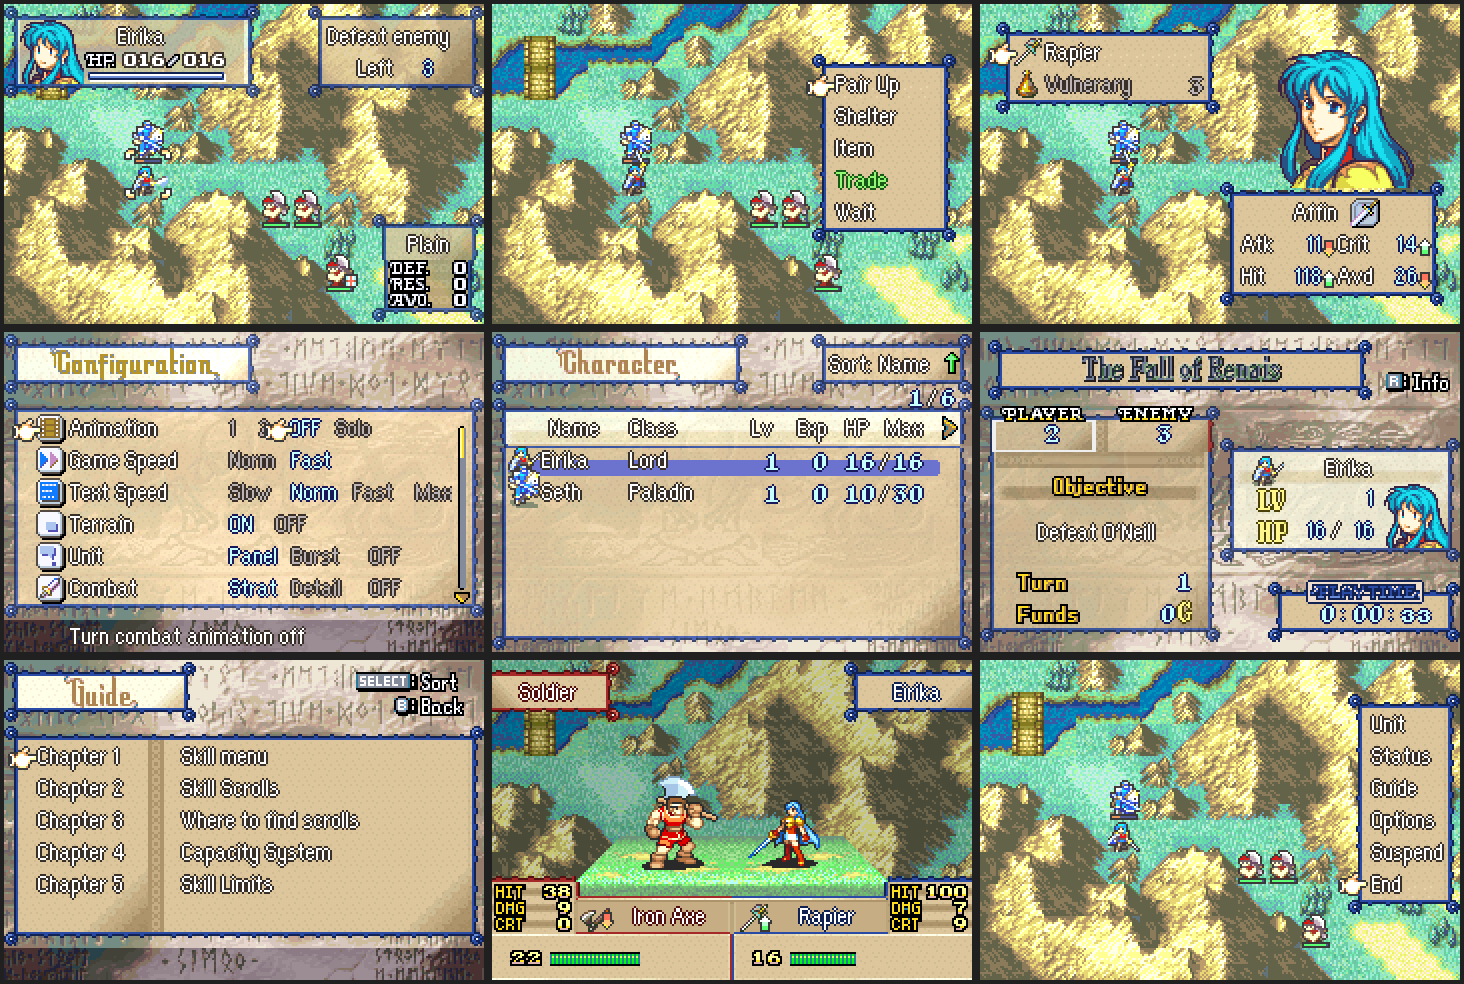
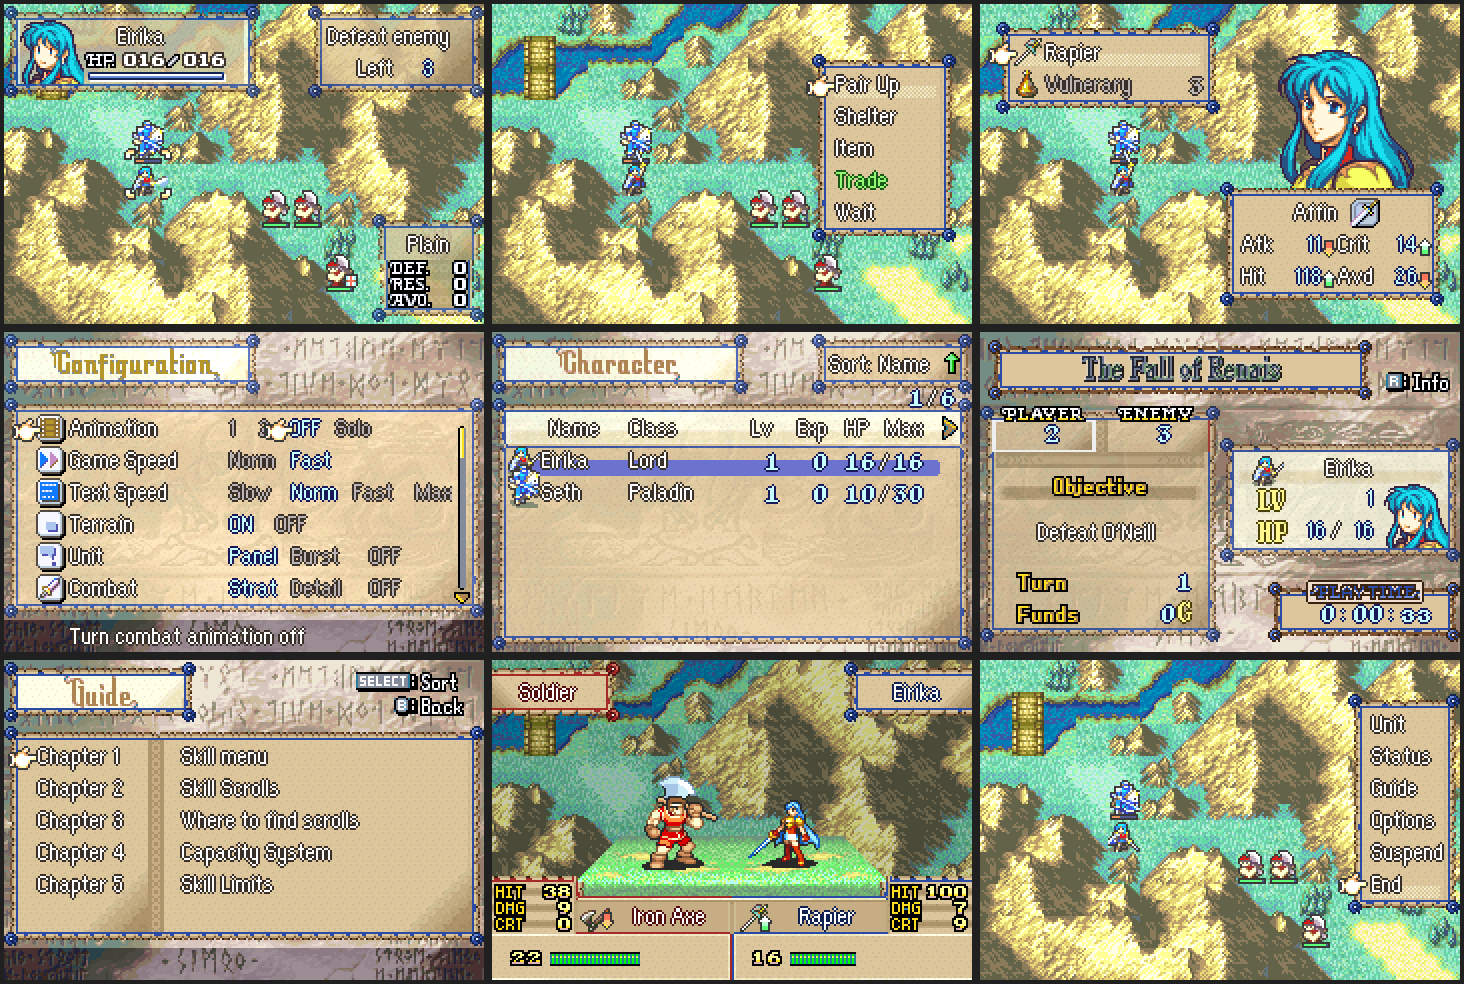
Give the Parchment UI a deckled, scorched paper edge
The outer border is now the sheet's own edge: nibbled in and torn
here and there, browning outward to a scorched rim with flecks of
char. The faction ink line runs just inside it, swelling like a pen.

Claude-Session: https://claude.ai/code/session_01Tw4Msv6aWGsnaGTgRodNJ7

diff --git a/Kernel/Wizardry/VeslyUI/png/Parchment/generate_parchment.py b/Kernel/Wizardry/VeslyUI/png/Parchment/generate_parchment.py
@@ -7,8 +7,9 @@ The shared redraw lives in ../style_tools.py; this script sets the look:
   * the palettes: aged paper panels and cream light panels for every window
     colour; the factions are told apart by their ink (blue, red, green,
     sepia), which draws the borders and the seals;
-  * the frame: a hand-drawn ink line whose outer edge wobbles, the stroke
-    swelling and thinning like a pen, on all four sides;
+  * the frame: the sheet's own edge, browning to a scorched rim with torn
+    notches and flecks of char, and a hand-drawn ink line inside it that
+    swells here and there like a pen, on all four sides;
   * a wax seal on each window corner, in the window's ink colour;
   * a faint paper-fibre speckle on the panels.
 
@@ -32,10 +33,11 @@ NAME = "Parchment"
 HERE = os.path.dirname(os.path.abspath(__file__))
 
 # Menu palette entries. White (1) stays white for text. 2-4 (vanilla's gold)
-# hold the window colour's ink, light to dark: it draws the border and the
-# wax seals. 5-9 are cream paper, 10-15 aged paper.
+# hold the window colour's ink, light to dark: it draws the ink line and the
+# wax seals. 5-7 are cream paper, 8 and 9 the scorched rim, 10-15 aged paper.
 INK_LIGHT, INK, INK_DARK = 2, 3, D
-PANEL = 10
+SCORCH, BURNT = 8, 9
+PANEL, BROWNED = 10, 13
 
 INKS = [
     # Blue ink: window colour 0, player faction.
@@ -47,7 +49,8 @@ INKS = [
     # Sepia ink: window colour 3, other (purple) faction.
     ["B08860", "6A4424", "2E1C0E"],
 ]
-CREAM = ["FFF8E4", "F6ECD2", "EEE0BE", "E4D2A8", "D8C498"]                # 5-9
+CREAM = ["FFF8E4", "F6ECD2", "EEE0BE"]                                    # 5-7
+RIM_COLOURS = ["7A5430", "3A2210"]                                        # 8 scorch, 9 burnt
 AGED = ["D8C49C", "CEB890", "C4AC84", "B8A078", "AC946C", "A08860"]       # 10-15
 
 # Prep funds/items OBJ palette (vanilla gUnknown_08A1B638): 2-9 dark -> light ramp.
@@ -55,7 +58,7 @@ PREP_ITEMS = ["7080A0", "2E1C0E", "4A3018", "6A4424", "8A6034", "A87E4C",
               "C49C68", "D8B888", "E8D0A8", "F4E6CC", "1E1208", "FFFFFF",
               "F6ECD2", "6888D0", "2C4CA0", "000000"]
 
-FIBRE_RAMPS = {"ui": [list(range(5, 10)), list(range(10, 16))],
+FIBRE_RAMPS = {"ui": [[5, 6, 7], list(range(10, 16))],
                "prep": [list(range(9, 1, -1))]}
 
 # Paper fibres: a few scattered pixels per 8x8 tile, one shade darker.
@@ -64,7 +67,7 @@ FIBRES = {(1, 1), (6, 2), (3, 4), (0, 6), (5, 6), (7, 4), (2, 7)}
 
 def ui_row(ink, dim=1.0):
     row = ([rgb("7080A0"), rgb("FFFFFF")] + [rgb(c) for c in ink]
-           + [rgb(c) for c in CREAM] + [rgb(c) for c in AGED])
+           + [rgb(c) for c in CREAM + RIM_COLOURS + AGED])
     if dim != 1.0:
         row = [row[0]] + [tuple(int(v * dim) for v in c) for c in row[1:]]
     return row
@@ -94,46 +97,75 @@ def texture(image, kind, skip=frozenset()):
 
 
 # --- Frame ------------------------------------------------------------------------
-# A hand-drawn ink line on every side. Its inner edge runs straight along the
-# panel; its outer edge wobbles, the stroke 1 to 3 pixels thick (2 at each
-# tile's ends, so tiles join up). Each tile wobbles in its own way, and the
-# DrawUiFrame replacement in C_Code.c mixes the interchangeable beam and left
-# edge tiles by position, so the wobble along a window is irregular.
-# Top lines end on row 7, bottom lines start on row 0, left lines end on
-# x 6 and right lines start on x 2.
+# A 4-pixel border on every side, from the panel out: a hand-drawn ink line,
+# then the sheet's own edge, browning to a scorched, deckled rim. The ink line
+# is 1 pixel with a stretch where the pen swells to 2; the rim is nibbled in,
+# torn and charred here and there (whole at each tile's ends, so tiles join
+# up). Each tile has its own, and the DrawUiFrame replacement in
+# C_Code.c mixes the interchangeable beam and left edge tiles by position, so
+# the edge along a window is irregular.
+# Top borders end on row 7, bottom borders start on row 0, left borders end
+# on x 6 and right borders start on x 1.
 OUTLINE = None       # this style lays out its own edges
-H_STROKE = 100       # + distance from the panel (0-2): placeholder on a top/bottom bar
+H_STROKE = 100       # + distance from the panel (0-3): placeholder on a top/bottom bar
 V_STROKE = 110       # the same on a left/right edge
 SIDE = 120           # a 1-pixel vanilla line on a side edge
-BAND = 3             # the most the stroke can swell to
+BAND = 4             # border thickness
+RIM = BAND - 1       # where the sheet ends, unless torn
 
 
-def wobble(t):
-    """Stroke thickness at each pixel along tile t: 2 with one swelling or
-    thinning stretch, placed by noise()."""
-    widths = [2] * 8
-    roll = noise(t)
-    if roll < 200:
+def pen(t):
+    """Ink line thickness at each pixel along tile t: 1, with one stretch
+    where the pen swells to 2, placed by noise()."""
+    widths = [1] * 8
+    roll = noise(t, 1)
+    if roll < 400:
         return widths
     start = 1 + roll % 4
-    length = 2 + (roll // 4) % 2
-    for i in range(start, min(7, start + length)):
-        widths[i] = 3 if (roll // 8) % 2 else 1
+    for i in range(start, min(7, start + 2 + (roll // 4) % 3)):
+        widths[i] = 2
     return widths
 
 
-def stroke(q, width):
-    """Ink q pixels from the panel on a stroke this wide: the outer pixel
-    darkest, nothing beyond it."""
-    if q >= width:
+def torn(t):
+    """The sheet's outermost pixel at each pixel along tile t, as a distance
+    from the panel: RIM, nibbled a pixel in here and there like a deckled
+    edge, and now and then torn a pixel deeper; placed by noise()."""
+    rim = [RIM] * 8
+    for i in range(1, 7):
+        roll = noise(t, 2, i)
+        if roll < 320:
+            rim[i] = RIM - 1
+    roll = noise(t, 4)
+    if roll < 250:
+        i = 2 + roll % 4
+        rim[i] = RIM - 2
+        rim[i - 1] = min(rim[i - 1], RIM - 1)
+    return rim
+
+
+def charred(t, along):
+    """Whether the rim is charred dark at this pixel along tile t."""
+    return noise(t, 3, along) < 220
+
+
+def sheet(q, rim, ink, char=False):
+    """The border q pixels from the panel: ink against the panel, the paper
+    carrying on past it and browning outward to a scorched rim (charred dark
+    in places), nothing past that."""
+    if q < ink:
+        return INK
+    if q > rim:
         return 0
-    return INK_DARK if q == width - 1 else INK
+    if q == rim:
+        return BURNT if char else SCORCH
+    return BROWNED if q == rim - 1 else PANEL
 
 
 def beam(n, i, outer):
-    """A bar n pixels thick. At a window edge: the ink line against the
-    panel. Between two panels: a single ink rule. A 1-pixel line is a side
-    edge, laid out later."""
+    """A bar n pixels thick. At a window edge: the ink line and the sheet's
+    edge outside it. Between two panels: a single ink rule. A 1-pixel line is
+    a side edge, laid out later."""
     if n == 1:
         return SIDE
     if outer == 0:
@@ -160,18 +192,18 @@ SEAL_INDEX = {"D": INK_DARK, "I": INK, "L": INK_LIGHT, "W": W}
 
 
 def corner_tile(outer_x, outer_y, inner_x, inner_y, seal_x, seal_y):
-    """The ink line mitred round the corner, with a seal on top. outer_* is
-    the corner of the stroke band's outer edge, inner_* the direction to the
-    panel."""
+    """The border mitred round the corner, its tip worn away, with a seal on
+    top. outer_* is the corner of the border's outer edge, inner_* the
+    direction to the panel."""
     tile = [[0] * 8 for _ in range(8)]
     for y in range(8):
         for x in range(8):
             dx = (x - outer_x) * inner_x
             dy = (y - outer_y) * inner_y
-            if dx < 0 or dy < 0:
+            if dx < 0 or dy < 0 or dx + dy < 2:
                 continue
             q = BAND - 1 - min(dx, dy)      # distance from the panel
-            tile[y][x] = stroke(q, 2) if q >= 0 else PANEL
+            tile[y][x] = sheet(q, RIM, 1) if q >= 0 else PANEL
     for sy, row in enumerate(SEAL):
         for sx, ch in enumerate(row):
             x, y = seal_x - 3 + sx, seal_y - 3 + sy
@@ -180,16 +212,17 @@ def corner_tile(outer_x, outer_y, inner_x, inner_y, seal_x, seal_y):
     return tile
 
 
-ART_NAMES = {0: ".", INK_LIGHT: "L", INK: "I", INK_DARK: "D", W: "W", PANEL: "P"}
+ART_NAMES = {0: ".", INK_LIGHT: "L", INK: "I", INK_DARK: "D", W: "W", PANEL: "P",
+             BROWNED: "b", SCORCH: "s", BURNT: "B"}
 ART_INDEX = {v: k for k, v in ART_NAMES.items()}
 CORNER_ART = {
     name: ["".join(ART_NAMES[v] for v in row) for row in corner_tile(*args)]
     for name, args in {
-        # stroke band corner, panel direction, seal centre
-        "TL": (4, 5, 1, 1, 3, 4),
-        "TR": (4, 5, -1, 1, 4, 4),
-        "BL": (4, 2, 1, -1, 3, 3),
-        "BR": (4, 2, -1, -1, 4, 3),
+        # border corner, panel direction, seal centre
+        "TL": (3, 4, 1, 1, 3, 4),
+        "TR": (5, 4, -1, 1, 4, 4),
+        "BL": (3, 3, 1, -1, 3, 3),
+        "BR": (5, 3, -1, -1, 4, 3),
     }.items()
 }
 
@@ -197,7 +230,7 @@ CORNER_ART = {
 EXTRA_CORNERS = {0x61: "TL"}
 
 # Window style 1 fills its whole tiles; its edge and corner tiles get the
-# ink line along their outer sides.
+# border along their outer sides.
 FULL_TILE_EDGES = {0x73: "T", 0x75: "L", 0x76: "R", 0x78: "B"}
 
 
@@ -205,8 +238,8 @@ def full_frame(tile, sides, drawn):
     for y in range(8):
         for x in range(8):
             d = min({"T": y, "B": 7 - y, "L": x, "R": 7 - x}[s] for s in sides)
-            if d < 2:
-                tile[y][x] = INK_DARK if d == 0 else INK
+            if d < BAND:
+                tile[y][x] = sheet(BAND - 1 - d, RIM, 1)
                 drawn.add((x, y))
             else:
                 tile[y][x] = PANEL
@@ -222,7 +255,7 @@ def is_panel(v):
 
 def lay_out_sides(tile, drawn):
     """Each panel pixel on a left or right edge becomes the inner edge of the
-    stroke band, which reaches outward from it."""
+    border, which reaches outward from it."""
     edges = [(x, y, dx) for y in range(8) for x in range(8) for dx in (1, -1)
              if is_panel(tile[y][x]) and 0 <= x - dx < 8 and tile[y][x - dx] == 0]
     for x, y, dx in edges:
@@ -237,22 +270,26 @@ def lay_out_sides(tile, drawn):
 
 
 def edge_details(tile, t, drawn):
-    """Lay out the side bands, ink every band with this tile's wobble, and
-    turn the white panels' white into fresh cream paper."""
+    """Lay out the side borders, draw every border with this tile's pen line
+    and torn rim, and fold the panels' two darkest light shades (their entries
+    hold the scorch colours) and their white into cream paper."""
     if t in FULL_TILE_EDGES:
         full_frame(tile, FULL_TILE_EDGES[t], drawn)
         return
     lay_out_sides(tile, drawn)
-    widths = wobble(t)
+    ink, rim = pen(t), torn(t)
     for y in range(8):
         for x in range(8):
             v = tile[y][x]
             if H_STROKE <= v < H_STROKE + BAND:
-                tile[y][x] = stroke(v - H_STROKE, widths[x])
+                tile[y][x] = sheet(v - H_STROKE, rim[x], ink[x], charred(t, x))
             elif V_STROKE <= v < V_STROKE + BAND:
-                tile[y][x] = stroke(v - V_STROKE, widths[y])
+                tile[y][x] = sheet(v - V_STROKE, rim[y], ink[y], charred(t, y))
             elif v == SIDE:
                 tile[y][x] = INK
+            elif (x, y) not in drawn and v in (SCORCH, BURNT):
+                tile[y][x] = 7
+                continue
             elif (x, y) not in drawn and v == W:
                 tile[y][x] = 5
                 continue
@@ -263,18 +300,19 @@ def edge_details(tile, t, drawn):
 
 
 # --- Chapter status banners -------------------------------------------------------
-# The banners use the player palette's blue ink, aged paper and white (the
-# darkest ink is the outline at 1, as the shared code draws letter outlines
-# with 1). They stay off the entries that hold the icons' original colours
-# (style_tools.VANILLA_ICON_SLOTS); cream paper reuses the icons' cream.
-SIGN_PALETTE = ["7080A0", "142450", "6888D0", "2C4CA0", "FFFFFF",
-                None, None, None, None, None, "D8C49C", "CEB890",
+# The banners use the player palette's blue ink, aged paper, the scorched rim
+# and white (the burnt rim is the outline at 1, as the shared code draws
+# letter outlines with 1). They stay off the entries that hold the icons'
+# original colours (style_tools.VANILLA_ICON_SLOTS); cream paper reuses the
+# icons' cream.
+SIGN_PALETTE = ["7080A0", "3A2210", "6888D0", "2C4CA0", "FFFFFF",
+                None, None, None, None, None, "D8C49C", "7A5430",
                 None, None, None, None]
 for slot, colour in style_tools.VANILLA_ICON_SLOTS.items():
     SIGN_PALETTE[slot] = colour
 MENU_TO_SIGN = {0: 0, INK_DARK: 1, INK_LIGHT: 2, INK: 3, W: 4,
-                5: 5, 6: 5, 7: 5, 8: 5, 9: 5,
-                10: 10, 11: 11, 12: 11, 13: 11, 14: 11, 15: 11}
+                5: 5, 6: 5, 7: 5, SCORCH: 11, BURNT: 1,
+                10: 10, 11: 10, 12: 10, 13: 11, 14: 11, 15: 11}
 # Vanilla PLAY TIME colours (OBJ palette 9) -> SIGN_PALETTE: blue ink face,
 # light ink shading, white drop shadow.
 LETTERS = {11: 3, 12: 3, 13: 2, 14: 5}

diff --git a/Documentation/Features/VeslyUIStyles.md b/Documentation/Features/VeslyUIStyles.md
@@ -158,7 +158,7 @@ Turn it on with `ENUT 0xB2` in an event (or `SetFlag(0xB2)` in C); it is `Forest
 
 ### 📜 Parchment
 
-A Parchment & Ink look. Each window is aged paper with a faint fibre speckle, ruled with a hand-drawn ink line that is a little wobbly: 2 pixels thick, with a stretch of 3 or 1 somewhere along each tile, so no two edges match. A wax seal sits on each corner. The faction shows only in the ink colour; light panels are fresh cream paper. The chapter name on the status screen is dark ink edged in cream.
+A Parchment & Ink look. Each window is a sheet of aged paper with a faint fibre speckle. Its outer edge is the sheet's own: deckled, nibbled in and torn here and there, browning outward to a scorched rim with flecks of char. Just inside it runs a hand-drawn ink line that swells to 2 pixels here and there like a pen, so no two edges match. A wax seal sits on each corner. The faction shows only in the ink colour; light panels are fresh cream paper. The chapter name on the status screen is dark ink edged in cream.
 
 Turn it on with `ENUT 0xB3` in an event (or `SetFlag(0xB3)` in C); it is `ParchmentStyleFlag`, style ID 11.
 
@@ -224,12 +224,12 @@ Each getter in `C_Code.c` indexes a table by the style ID (one entry per style).
 
 `png/style_tools.py` holds the shared redraw. Each style's script (`png/Wood/generate_wood.py`, `png/Tech/generate_tech.py`, `png/Royal/generate_royal.py`, `png/Glass/generate_glass.py`, `png/Paper/generate_paper.py`, `png/Ocean/generate_ocean.py`, `png/Forest/generate_forest.py`, `png/Parchment/generate_parchment.py`) sets the look and calls `build_style`, which builds every file for that style from the vanilla images in `png/Vanilla`. It keeps each image's tile layout and window outline, so the game's tilemaps still line up, and redraws what is inside:
 
-- Gold trim bars are redrawn by the style's `beam`, from each pixel's position across the bar: wooden beams for wood; for tech, the neon edge line and its band, with the rest of the bar left transparent (a neon line on a dark rail between two panels); for royal, the gold moulding; for glass, lead and glass pieces; for paper, the black-and-white cutout border; for ocean, rope and waves; for forest, woven vines; for parchment, an ink line.
+- Gold trim bars are redrawn by the style's `beam`, from each pixel's position across the bar: wooden beams for wood; for tech, the neon edge line and its band, with the rest of the bar left transparent (a neon line on a dark rail between two panels); for royal, the gold moulding; for glass, lead and glass pieces; for paper, the black-and-white cutout border; for ocean, rope and waves; for forest, woven vines; for parchment, an ink line inside the sheet's scorched edge.
 - Every edge that meets the transparent backdrop gets the style's `OUTLINE`: black for wood, the neon line for tech (which also adds a glow outside it).
 - Ornament tiles (curls, crests, the battle gem) are replaced with the plain tile of the same role (`PLAIN_COPIES`, `BATTLE_COPIES`).
 - Corner tiles come from the style's `CORNER_ART`: broken plank ends for wood, rounded neon corners for tech, jewels in gold diamonds for royal, square panes for glass, rounded corners with a drop shadow for paper, starfish for ocean, leaves for forest, wax seals for parchment (`CORNERS`, `BATTLE_CORNERS`).
 - The status screen's chapter title banner and play-time box are rebuilt from the finished frame tiles, so they match the windows. The play-time box keeps vanilla's letters on a small plate (`play_status`). It is 96 pixels wide instead of 80 so the clock fits, so `StatusScreenSpriteDraw_Loop` in `C_Code.c` draws it with a wider sprite for these styles.
-- Beam and edge tiles get the style's details (`edge_details`): chips, cracks and grain streaks for wood (`EDGE_CHIPS`, plus an occasional small dent on other tiles); for tech, the side lines move one pixel out to leave the band, and every lit edge gets its glow; for royal and glass, the side borders push out to 4 pixels, and glass colours each tile's piece (`PIECES`); paper does the same and adds its drop shadow; ocean, forest and parchment lay out their own borders (`OUTLINE = None`), and parchment gives each tile its own wobble (`wobble`).
+- Beam and edge tiles get the style's details (`edge_details`): chips, cracks and grain streaks for wood (`EDGE_CHIPS`, plus an occasional small dent on other tiles); for tech, the side lines move one pixel out to leave the band, and every lit edge gets its glow; for royal and glass, the side borders push out to 4 pixels, and glass colours each tile's piece (`PIECES`); paper does the same and adds its drop shadow; ocean, forest and parchment lay out their own borders (`OUTLINE = None`), and parchment gives each tile its own pen line and torn rim (`pen`, `torn`).
 
 For these styles, `DrawUiFrame` (replaced in `C_Code.c`) picks each top beam, bottom beam and left edge tile from a set of interchangeable ones by position. So wood's chips and glass's piece colours along a window don't repeat every 8 pixels. Tech's beam tiles all look the same, so the mixing makes no difference there. The tile sets in `C_Code.c` (`sFrameTopBeams` and friends) must match `TOP_BEAMS` and friends in `style_tools.py`.
 
